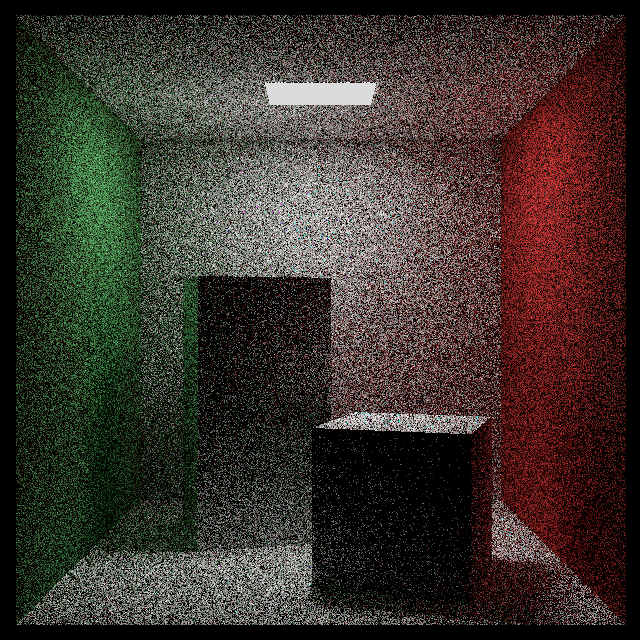
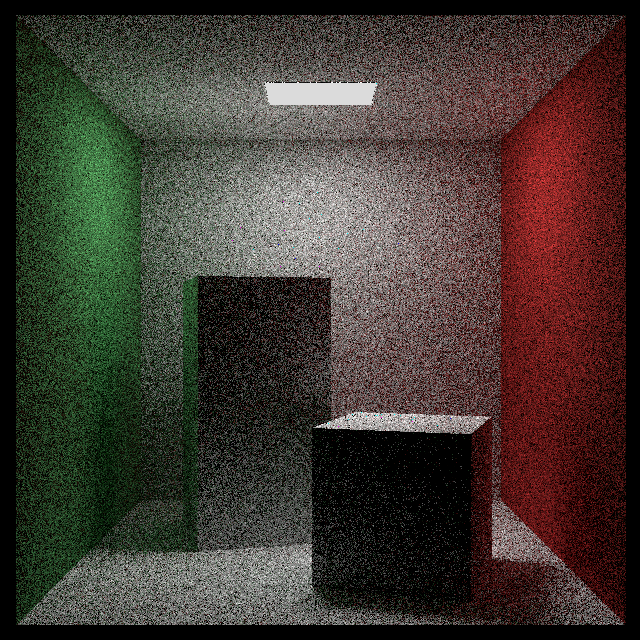
light sampling groundwork

diff --git a/src/core/rendering/utility_functions.h b/src/core/rendering/utility_functions.h
@@ -13,6 +13,7 @@ class imaterial;
 // global const variables
 constexpr float inv_rand_max = 1.f / RAND_MAX;
 constexpr float pi = 3.14159f;
+constexpr float inv_pi = 1 / 3.14159f;
 
 inline vec3 random_in_unit_sphere()
 {
@@ -24,9 +25,24 @@ inline vec3 random_in_unit_sphere()
                       rand() * inv_rand_max,
                       rand() * inv_rand_max) -
             vec3(1.f, 1.f, 1.f);
-    } while (p.squared_length() >= 1.f);
+    } while (dot(p, p) >= 1.f);
 
     return p;
+}
+
+inline vec3 random_on_unit_sphere()
+{
+    vec3 p;
+    do
+    {
+        p = 2.f * vec3(
+                      rand() * inv_rand_max,
+                      rand() * inv_rand_max,
+                      rand() * inv_rand_max) -
+            vec3(1.f, 1.f, 1.f);
+    } while (dot(p, p) >= 1.f);
+
+    return unit_vector(p);
 }
 
 inline vec3 random_in_unit_disk()
@@ -53,10 +69,15 @@ inline vec3 color(const ray& r, ihitable* world, const int depth)
 
         const vec3 emitted = rec.mat_ptr->emitted(rec.u, rec.v, rec.p);
 
-        if (depth < 10 && rec.mat_ptr->scatter(r, rec, attenuation, scattered))
+        float pdf;
+
+        vec3 albedo;
+
+        if (depth < 10 && rec.mat_ptr->scatter(r, rec, albedo, scattered, pdf))
         {
-            return emitted + attenuation * color(scattered, world, depth + 1);
-            //            return attenuation;
+            return emitted +
+                   albedo * rec.mat_ptr->scattering_pdf(r, rec, scattered) *
+                       color(scattered, world, depth + 1) / pdf;
         }
 
         return emitted;

diff --git a/src/materials/lambertian.cpp b/src/materials/lambertian.cpp
@@ -5,11 +5,27 @@
 bool lambertian::scatter(
     const ray&        r_in,
     const hit_record& rec,
-    vec3&             attenuation,
-    ray&              scattered) const
+    vec3&             alb,
+    ray&              scattered,
+    float&            pdf) const
 {
-    const vec3 target = rec.p + rec.normal + random_in_unit_sphere();
-    scattered = ray(rec.p, target - rec.p, r_in.time());
-    attenuation = albedo->value(rec.u, rec.v, rec.p);
+    vec3 target = rec.p + rec.normal + random_in_unit_sphere();
+    scattered = ray(rec.p, unit_vector(target - rec.p), r_in.time());
+    alb = albedo->value(rec.u, rec.v, rec.p);
+    pdf = dot(rec.normal, scattered.direction()) * inv_pi;
     return true;
+}
+
+float lambertian::scattering_pdf(
+    const ray&        r_in,
+    const hit_record& rec,
+    const ray&        scattered) const
+{
+    float cosine = dot(rec.normal, unit_vector(scattered.direction()));
+    if (cosine < 0)
+    {
+        cosine = 0;
+    }
+
+    return cosine * inv_pi;
 }

diff --git a/src/core/bases/imaterial.h b/src/core/bases/imaterial.h
@@ -1,11 +1,8 @@
 #pragma once
 
 #include "core/data_types/hit_record.h"
+#include "core/data_types/ray.h"
 #include "core/data_types/vec3.h"
-
-// Forward declarations
-struct hit_record;
-class ray;
 
 class imaterial
 {
@@ -15,8 +12,20 @@ class imaterial
     virtual bool scatter(
         const ray&        r_in,
         const hit_record& rec,
-        vec3&             attenuation,
-        ray&              scattered) const = 0;
+        vec3&             albedo,
+        ray&              scattered,
+        float&            pdf) const
+    {
+        return false;
+    }
+
+    virtual float scattering_pdf(
+        const ray&        r_in,
+        const hit_record& rec,
+        const ray&        scattered) const
+    {
+        return false;
+    }
 
     virtual vec3 emitted(float u, float v, const vec3& p) const
     {

diff --git a/src/materials/diffuse_light.h b/src/materials/diffuse_light.h
@@ -11,13 +11,14 @@ class diffuse_light : public imaterial
     explicit diffuse_light(itexture* a)
       : emit(a){};
 
-    virtual ~diffuse_light() override = default;
+    ~diffuse_light() override = default;
 
-    virtual bool scatter(
+    bool scatter(
         const ray&        r_in,
         const hit_record& rec,
         vec3&             attenuation,
-        ray&              scattered) const override
+        ray&              scattered,
+        float&            pdf) const override
     {
         return false;
     }

diff --git a/src/materials/lambertian.h b/src/materials/lambertian.h
@@ -16,8 +16,14 @@ class lambertian : public imaterial
     virtual bool scatter(
         const ray&        r_in,
         const hit_record& rec,
-        vec3&             attenuation,
-        ray&              scattered) const override;
+        vec3&             alb,
+        ray&              scattered,
+        float&            pdf) const override;
+
+    float scattering_pdf(
+        const ray&        r_in,
+        const hit_record& rec,
+        const ray&        scattered) const override;
 
     itexture* albedo;
 };

diff --git a/src/materials/dielectric.h b/src/materials/dielectric.h
@@ -12,13 +12,14 @@ class dielectric : public imaterial
     explicit dielectric(const float ri)
       : ref_idx(ri){};
 
-    virtual ~dielectric() override = default;
+    ~dielectric() override = default;
 
-    virtual bool scatter(
+    bool scatter(
         const ray&        r_in,
         const hit_record& rec,
         vec3&             attenuation,
-        ray&              scattered) const override;
+        ray&              scattered,
+        float&            pdf) const override;
 
     float ref_idx;
 };

diff --git a/utility_apps/number_generator/main.cpp b/utility_apps/number_generator/main.cpp
@@ -1,0 +1,25 @@
+#include "core/rendering/utility_functions.h"
+
+#include <cmath>
+#include <cstdlib>
+#include <iostream>
+
+#define M_PI 3.141592654
+
+inline float pdf(const vec3& p)
+{
+    return 1 / (4 * M_PI);
+}
+
+int main()
+{
+    int   N = 1000000;
+    float sum = 0;
+    for (int i = 0; i < N; i++)
+    {
+        vec3  d = random_on_unit_sphere();
+        float cosine_squared = d.z() * d.z();
+        sum += cosine_squared / pdf(d);
+    }
+    std::cout << "I = " << sum / N << "\n";
+}

diff --git a/src/materials/metal.h b/src/materials/metal.h
@@ -11,13 +11,14 @@ class metal : public imaterial
       : albedo(a)
       , fuzz(fuzz){};
 
-    virtual ~metal() override = default;
+    ~metal() override = default;
 
-    virtual bool scatter(
+    bool scatter(
         const ray&        r_in,
         const hit_record& rec,
         vec3&             attenuation,
-        ray&              scattered) const override;
+        ray&              scattered,
+        float&            pdf) const override;
 
     vec3  albedo;
     float fuzz;

diff --git a/src/materials/metal.cpp b/src/materials/metal.cpp
@@ -7,7 +7,8 @@ bool metal::scatter(
     const ray&        r_in,
     const hit_record& rec,
     vec3&             attenuation,
-    ray&              scattered) const
+    ray&              scattered,
+    float&            pdf) const
 {
     const vec3 reflected = reflect(unit_vector(r_in.direction()), rec.normal);
     scattered =

diff --git a/src/materials/dielectric.cpp b/src/materials/dielectric.cpp
@@ -8,7 +8,8 @@ bool dielectric::scatter(
     const ray&        r_in,
     const hit_record& rec,
     vec3&             attenuation,
-    ray&              scattered) const
+    ray&              scattered,
+    float&            pdf) const
 {
     vec3 outward_normal;
 

diff --git a/applications/RIFT_cli/main.cpp b/applications/RIFT_cli/main.cpp
@@ -10,7 +10,7 @@ int main()
 {
     const int nx{640};
     const int ny{640};
-    const int num_samples(50 * 8);
+    const int num_samples(100 * 8);
 
     scene_generator generator;
 

diff --git a/src/core/image_writers/png_writer.cpp b/src/core/image_writers/png_writer.cpp
@@ -2,6 +2,7 @@
 
 #include "third_party/stb_image_write.h"
 
+#include <cmath>
 #include <iostream>
 
 void png_writer::write(
